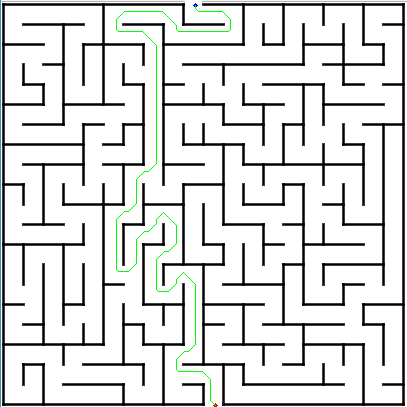
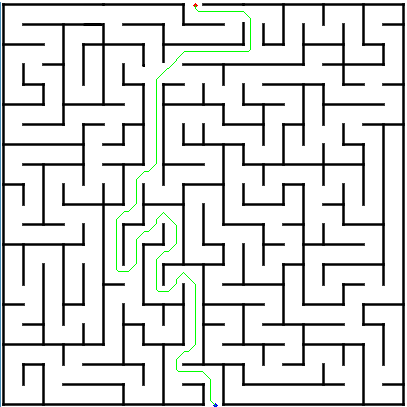
code_organized_added_maze3

diff --git a/solve_maze.py b/solve_maze.py
@@ -128,20 +128,22 @@ def draw_color_path(map: np.ndarray, path: list) -> np.ndarray:
     Args:
         map: The map of the maze.
     '''
-    cv2.circle(map, (start[1], start[0]), 2, (255, 0, 0), -1)
-    cv2.circle(map, (end[1], end[0]), 2, (0, 0, 255), -1)
+    cv2.circle(map, (path[0][1], path[0][0]), 2, (255, 0, 0), -1)
+    cv2.circle(map, (path[-1][1], path[-1][0]), 2, (0, 0, 255), -1)
     for point in path:
         map[point[0], point[1]] = [0, 255, 0]
+        cv2.imshow('Colored', map)
+        cv2.waitKey(1)
     
     return map
 
-if __name__ == "__main__":
-    
+def main():
+
     start = (5, 195)
     end = (405, 215)
-    
+
     # Load the map of the maze
-    image, map = load_map('maze.png')
+    image, map = load_map('maze_3.png')
 
     # Find the shortest path using A* algorithm
     path = A_star(map, start, end)
@@ -152,17 +154,9 @@ if __name__ == "__main__":
     # Draw the path on the map
     image = draw_color_path(image, path)
 
-    # test_point = (286, 164)
-    # print(nearest_obs_2(map, test_point))
-
-    # cv2.circle(image, (test_point[1], test_point[0]), 2, (0, 0, 255), -1)
-
-    # cv2.imshow('Map', map)
-    cv2.imshow('Colored', image)
     cv2.imwrite('maze_solved.png', image)
-    cv2.waitKey(1)
-    
-    # plt.imshow(map, cmap='gray')
-    # plt.axis('off')
-    # plt.show()
-    
+    cv2.imshow('Colored', image)
+    cv2.waitKey(0)
+
+if __name__ == "__main__":
+    main()

diff --git a/README.md b/README.md
@@ -1,0 +1,3 @@
+# A* Algorithm for Maze Solving
+--------------
+
